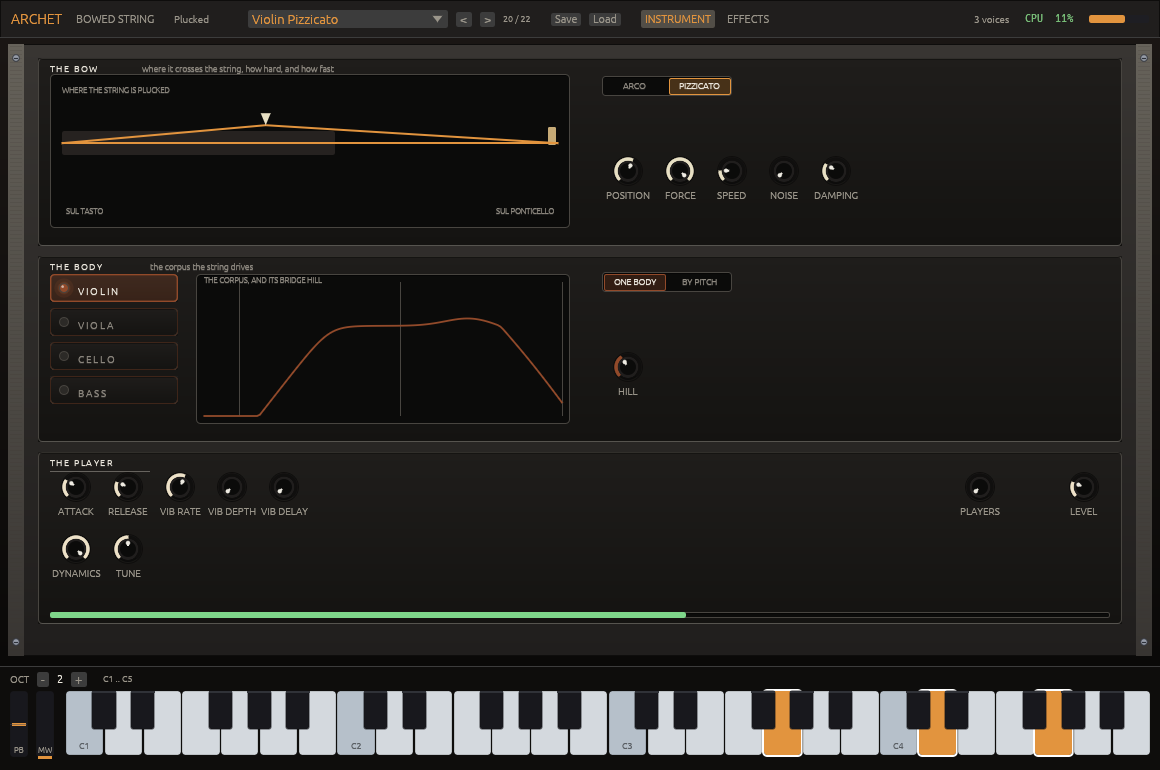
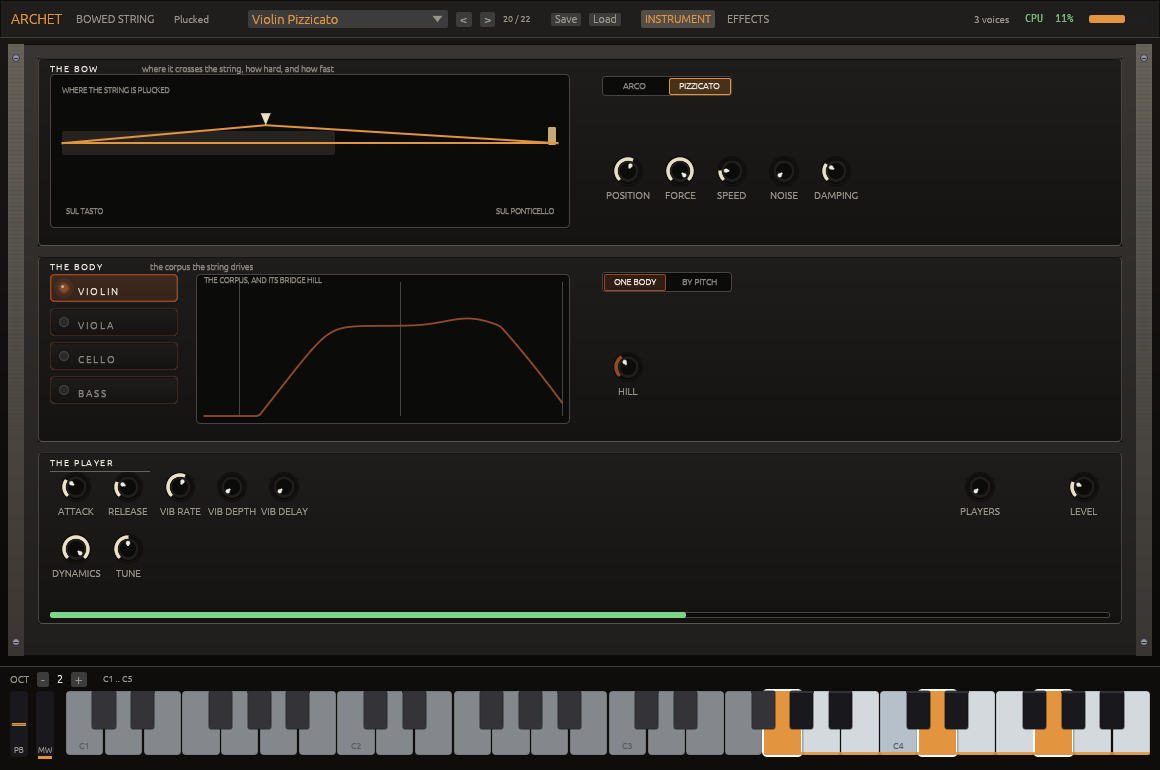
feat: the keyboard underlines the notes the instrument plays
Each instrument declares the range from its lowest open string to the
top of its usual register, a composite desk the family's; the shared
keyboard fades the keys outside it and underlines the span. A note
outside asks the model for what the real instrument has no string for.

diff --git a/vendor/phonix-sdk/crates/phonix-ui/src/keyboard.rs b/vendor/phonix-sdk/crates/phonix-ui/src/keyboard.rs
@@ -90,6 +90,9 @@ pub struct KeyboardStyle {
     pub wheels:        bool,
     /// Stable id salt so multiple keyboards on one screen don't collide.
     pub id_salt:       &'static str,
+    /// The notes the instrument plays, lowest and highest: keys outside are
+    /// drawn faded, and the accent underlines the span. None marks nothing.
+    pub range:         Option<(u8, u8)>,
 }
 
 impl Default for KeyboardStyle {
@@ -97,7 +100,7 @@ impl Default for KeyboardStyle {
         Self {
             accent: ACCENT_SEQ, height: 64.0, labels: true,
             velocity: 100, velocity_by_y: true,
-            header: true, wheels: false, id_salt: "kbd",
+            header: true, wheels: false, id_salt: "kbd", range: None,
         }
     }
 }
@@ -316,6 +319,7 @@ fn keyboard_keys(ui: &mut Ui, state: &mut KeyboardState, style: &KeyboardStyle, 
 
     // ── Draw ──
     let painter = ui.painter();
+    let plays = |note: u8| style.range.is_none_or(|(lo, hi)| (lo..=hi).contains(&note));
     for key in keys.iter().filter(|k| !k.is_black) {
         // Lit = held with the mouse OR sounding from MIDI/the engine (state.active).
         let held = state.held.contains(&key.note) || state.active.contains(&key.note);
@@ -323,6 +327,7 @@ fn keyboard_keys(ui: &mut Ui, state: &mut KeyboardState, style: &KeyboardStyle, 
         let is_c = key.note % 12 == 0;
         let fill = if held { style.accent }
             else if is_hovered { Color32::from_rgb(200, 210, 220) }
+            else if !plays(key.note) { Color32::from_rgb(132, 136, 141) }
             else if is_c { Color32::from_rgb(182, 192, 202) }
             else { Color32::from_rgb(212, 217, 222) };
         painter.rect_filled(key.rect, 3u8, fill);
@@ -341,6 +346,7 @@ fn keyboard_keys(ui: &mut Ui, state: &mut KeyboardState, style: &KeyboardStyle, 
         let is_hovered = hovered == Some(key.note);
         let fill = if held { style.accent }
             else if is_hovered { Color32::from_rgb(60, 65, 70) }
+            else if !plays(key.note) { Color32::from_rgb(52, 52, 56) }
             else { Color32::from_rgb(24, 24, 29) };
         painter.rect_filled(key.rect, 2u8, fill);
         painter.rect_stroke(key.rect, 2u8,
@@ -349,6 +355,18 @@ fn keyboard_keys(ui: &mut Ui, state: &mut KeyboardState, style: &KeyboardStyle, 
         if !held {
             let hl = Rect::from_min_size(key.rect.left_top(), Vec2::new(key.rect.width(), 2.0));
             painter.rect_filled(hl, 2u8, Color32::from_rgb(48, 50, 56));
+        }
+    }
+    // The span the instrument plays, underlined in the accent along the
+    // bottom edge of its white keys.
+    if let Some((lo, hi)) = style.range {
+        let span: Vec<&KeyInfo> = keys.iter().filter(|k| !k.is_black && (lo..=hi).contains(&k.note)).collect();
+        if let (Some(first), Some(last)) = (span.first(), span.last()) {
+            let bar = Rect::from_min_max(
+                Pos2::new(first.rect.left(), first.rect.bottom() - 3.0),
+                Pos2::new(last.rect.right(), first.rect.bottom()),
+            );
+            painter.rect_filled(bar, 1u8, style.accent.gamma_multiply(0.85));
         }
     }
 

diff --git a/crates/archet/src/patch.rs b/crates/archet/src/patch.rs
@@ -94,6 +94,17 @@ impl Instrument {
             Instrument::DoubleBass => 0.33,
         }
     }
+    /// The notes the instrument plays, lowest open string to the top of
+    /// its usual register: violin G3 to E7, viola C3 to A6, cello C2 to
+    /// C6, double bass E1 to G4.
+    pub fn range(self) -> (u8, u8) {
+        match self {
+            Instrument::Violin => (55, 100),
+            Instrument::Viola => (48, 93),
+            Instrument::Cello => (36, 84),
+            Instrument::DoubleBass => (28, 67),
+        }
+    }
     /// Index into the per-instrument body curves in body.rs.
     pub fn body_index(self) -> usize {
         match self {
@@ -370,6 +381,18 @@ impl ArchetPatch {
                          ensemble: 12.0, polyphony: 32, auto_range: true,
                          ..Self::default() }, "Pizzicato Section"),
         ]
+    }
+}
+
+impl ArchetPatch {
+    /// The notes the patch plays: its instrument's, or the whole family's
+    /// where the body is picked per note.
+    pub fn range(&self) -> (u8, u8) {
+        if self.auto_range {
+            (Instrument::DoubleBass.range().0, Instrument::Violin.range().1)
+        } else {
+            self.instrument.range()
+        }
     }
 }
 

diff --git a/crates/archet-ui/src/app.rs b/crates/archet-ui/src/app.rs
@@ -288,6 +288,7 @@ impl ArchetApp {
                     header: true,
                     wheels: true,
                     id_salt: "archet_kbd",
+                    range: Some(self.patch.range()),
                 };
                 for ev in keyboard_ui(ui, &mut self.keys, &style) {
                     let cmd = match ev {

diff --git a/README.md b/README.md
@@ -23,7 +23,9 @@ ponticello, how hard and how fast, with the friction model and the noise
 and damping of the stroke. The body: which of the four, its response with
 the bridge hill drawn, and the torsion under it. The player: attack and
 release, the vibrato, the dynamics, the size of the section, the level.
-The keyboard below plays it.
+The keyboard below plays it, and underlines the notes the instrument
+plays: outside them the model is asked for a note the real instrument
+has no string for.
 
 ![The editor, bowing](docs/screenshots/archet_arco.png)
 
